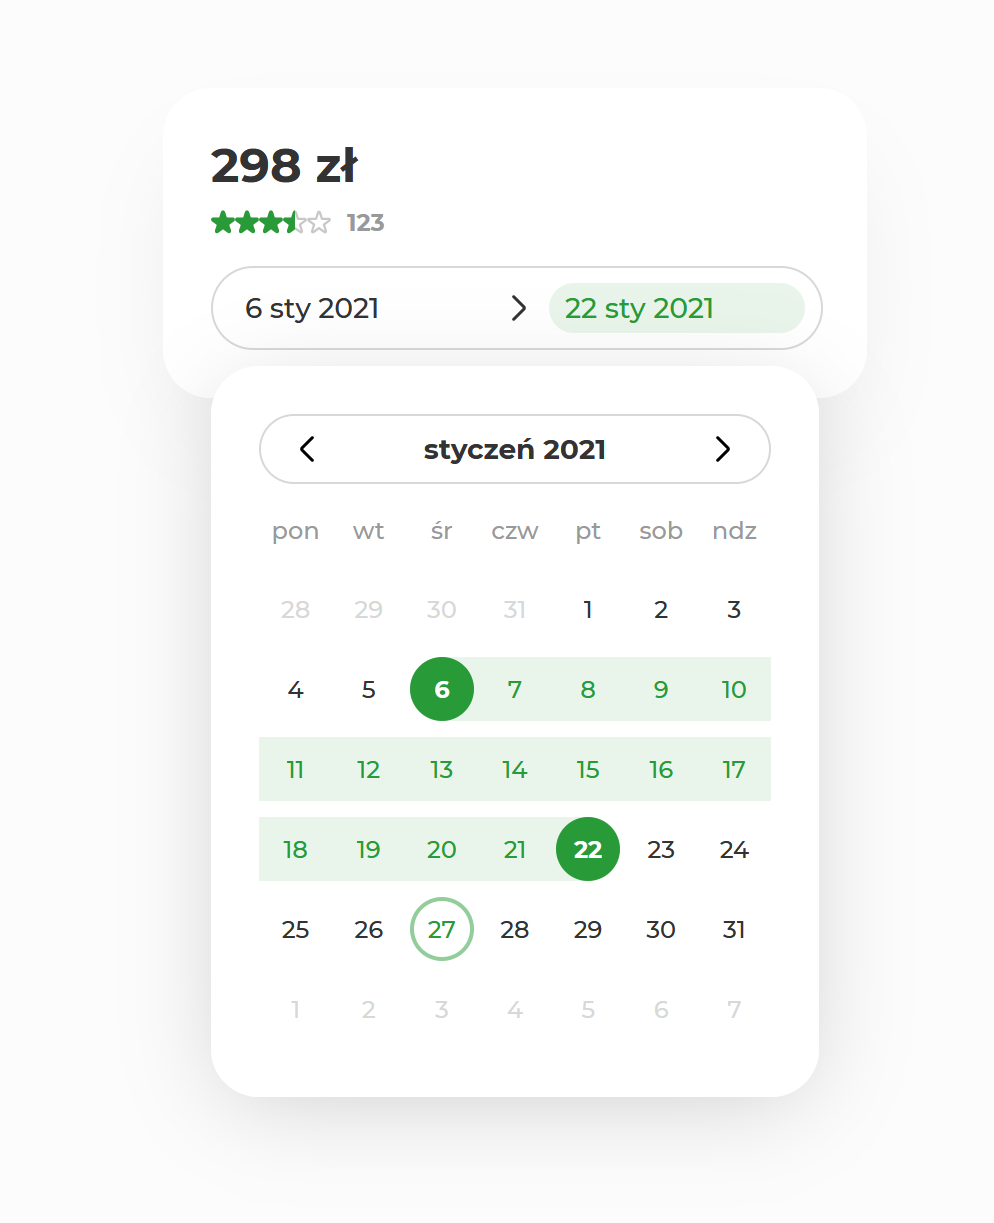
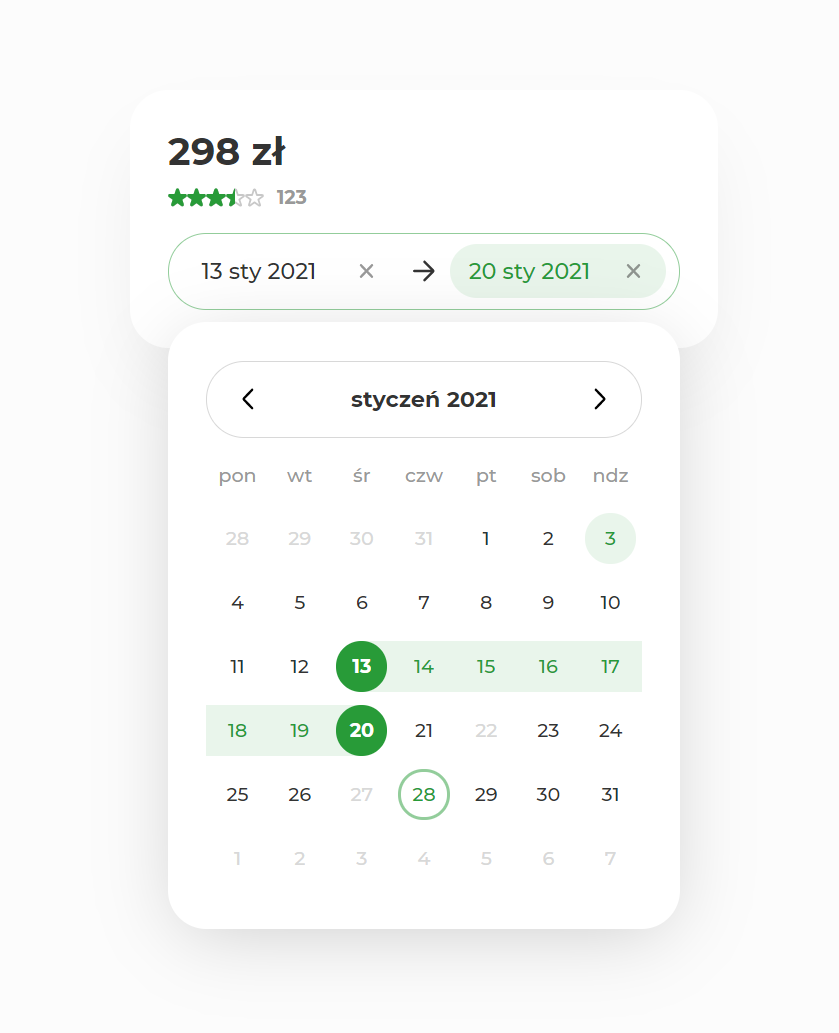
Update readme

diff --git a/README.md b/README.md
@@ -2,11 +2,20 @@
 
 ## Demo
 
-Demo available on:
-
 <https://vue-3-booking-form.firebaseapp.com>
 
 ![vue-3-booking-form/thumb.png](https://github.com/kumalg/vue-3-booking-form/blob/master/thumb.png)
+
+## Features
+
+- Keyboard support:
+  - <kbd>Tab</kbd> keyboard navigation to change input ("date from" or "date to")
+  - <kbd>←</kbd> <kbd>↑</kbd> <kbd>→</kbd> <kbd>↓</kbd> keyboard navigation to change highlighted day in calendar and <kbd>Enter</kbd> to accept
+  - <kbd>Esc</kbd> to close calendar popup
+- Minimum valid date
+- Maximum valid date
+- List of excluded days
+- Configurable placeholders
 
 ## Project setup
 
